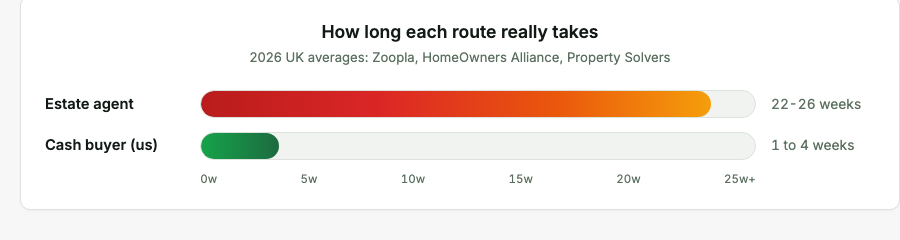
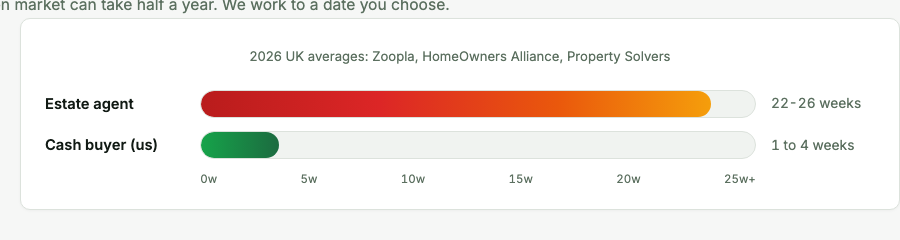
Homepage changes requested by Dearne Valley
Applies the amendments Dave and JP asked for, with two exceptions noted below.

- Entry popup delay moved from 3 seconds to 15, so a visitor can look at the
  site before it appears. poptest4.js asserted the popup by 3.8 seconds, so it
  encoded the old timing and has been retimed; its negative checks were also
  pushed past 15 seconds, otherwise they would pass merely because the timer
  had not fired yet.
- Hero: "or title complications" is now "or a property in need of repair".
- Stats strip: the "80-85% typical offer" tile is replaced with "Any condition,
  bought as it stands, no repairs needed", which is an approved claim.
- Simple Process: "buying your home" is now "buying your property".
- Instant Estimate calculator removed from the homepage.
- Comparison table removed. The timescale graph is kept, and the section is
  retitled "How long each route really takes" since the money table has gone.
  The duplicate title inside the figure caption is dropped.
- About: the "typically 80 to 85 percent of market value" clause is gone,
  replaced with the point that every property is priced on what it is rather
  than on a formula.

Removing the calculator meant cleaning up after it. 10 pages carried a "check
it yourself" callout linking to /#offer-estimate, which is now a dead anchor;
those now point at the offer form and no longer promise a number on screen.
The homepage HowTo schema describing the calculator is removed, since it
described content that is no longer there.
[…]

diff --git a/website/index.html b/website/index.html
@@ -32,42 +32,7 @@
   </style>
 
 <!-- howto-schema -->
-<script type="application/ld+json">
-{
-  "@context": "https://schema.org",
-  "@type": "HowTo",
-  "name": "How to estimate a cash offer for your house",
-  "description": "Get an indicative cash offer for your property based on its estimated market value and condition tier.",
-  "tool": [
-    {
-      "@type": "HowToTool",
-      "name": "South Yorkshire Property Buyers cash offer estimator"
-    }
-  ],
-  "step": [
-    {
-      "@type": "HowToStep",
-      "name": "Get an estimated market value",
-      "text": "Use Zoopla or Rightmove to get a free estimated market value for your property."
-    },
-    {
-      "@type": "HowToStep",
-      "name": "Enter the market value",
-      "text": "Type the estimated market value into the calculator in pounds sterling."
-    },
-    {
-      "@type": "HowToStep",
-      "name": "Pick property condition",
-      "text": "Choose the condition tier: excellent (refurbished), good (well-maintained), fair (dated), poor (significant work needed), or very poor (uninhabitable)."
-    },
-    {
-      "@type": "HowToStep",
-      "name": "Review the indicative offer",
-      "text": "The calculator shows the indicative cash offer, the condition-adjusted market value, and the offer as a percentage of market value. Final offers follow a short viewing and are valid for 14 days."
-    }
-  ]
-}
-</script>
+
 </head>
 <body>
 <div class="scroll-progress" id="scrollProgress"></div>
@@ -201,7 +166,7 @@
     </div>
     <div class="badge">South Yorkshire's Trusted Cash Buyers</div>
     <h1>Sell Your House Fast in South Yorkshire.<br><em>No Agents. No Delays.</em></h1>
-    <p>Facing <span class="kw">repossession</span>, <span class="kw">probate</span>, <span class="kw">divorce</span>, or <span class="kw">title complications</span>? We buy any property in South Yorkshire for <span class="kw">cash</span>, in as little as <span class="kw">7 days</span>.</p>
+    <p>Facing <span class="kw">repossession</span>, <span class="kw">probate</span>, <span class="kw">divorce</span>, or <span class="kw">a property in need of repair</span>? We buy any property in South Yorkshire for <span class="kw">cash</span>, in as little as <span class="kw">7 days</span>.</p>
     <div class="hero-btns">
       <a href="/get-offer/" class="btn-primary">Request My Callback</a>
       <a href="tel:+447739063734" class="btn-secondary" data-track="phone-tap">07739 063734</a>
@@ -239,8 +204,8 @@
     <span class="label">Your written cash offer</span>
   </div>
   <div class="sypb-stat">
-    <span class="num">80-85%</span>
-    <span class="label">Typical offer vs market value</span>
+    <span class="num">Any condition</span>
+    <span class="label">Bought as it stands, no repairs needed</span>
   </div>
   <div class="sypb-stat">
     <span class="num">£0</span>
@@ -254,7 +219,7 @@
     <div class="section-header reveal">
       <span class="section-label">Simple Process</span>
       <h2 class="section-title">How it works</h2>
-      <p class="section-sub">We are completely transparent throughout the process of buying your home.</p>
+      <p class="section-sub">We are completely transparent throughout the process of buying your property.</p>
     </div>
     <div class="how-steps reveal">
       <div class="how-step">
@@ -288,86 +253,7 @@
   </div>
 </section>
 
-<!-- CASH OFFER ESTIMATOR -->
-<section class="calc-section" id="offer-estimate" aria-labelledby="calc-home-heading">
-  <div class="section-inner" style="max-width:880px;">
-    <div class="section-header reveal" style="text-align:center;">
-      <span class="section-label">Instant Estimate</span>
-      <h2 class="section-title" id="calc-home-heading">See an indicative cash offer for your house</h2>
-      <p class="section-sub">Enter the Zoopla or Rightmove estimate for your property and pick an honest condition tier. We'll show you what we'd typically offer, instantly, with no contact details required.</p>
-    </div>
 
-    <section class="sypb-calc reveal" data-calc="cash-offer" aria-labelledby="cash-offer-heading-home">
-      <header class="sypb-calc-header">
-        <h3 id="cash-offer-heading-home">Cash offer estimator</h3>
-        <p>Numbers update as you type. No data leaves your browser.</p>
-      </header>
-
-      <div class="sypb-calc-grid">
-        <div class="sypb-calc-field">
-          <label for="cash-value-home">Estimated market value</label>
-          <div class="sypb-calc-input-wrap">
-            <span class="prefix">£</span>
-            <input id="cash-value-home" type="number" inputmode="decimal" min="0" step="1000" value="200000" class="has-prefix" data-calc-input="value" aria-describedby="cash-value-note-home">
-          </div>
-          <small id="cash-value-note-home" style="font-size:0.8rem;color:var(--muted);">Don't know? Get a free estimate from <a href="https://www.zoopla.co.uk/home-values/" rel="noopener" target="_blank">Zoopla</a> or <a href="https://www.rightmove.co.uk/house-prices.html" rel="noopener" target="_blank">Rightmove</a>.</small>
-        </div>
-
-        <div class="sypb-calc-field">
-          <label for="cash-condition-home">Property condition</label>
-          <div class="sypb-calc-input-wrap">
-            <select id="cash-condition-home" data-calc-input="condition">
-              <option value="excellent">Excellent: refurbished, move-in ready</option>
-              <option value="good" selected>Good: well-maintained, minor cosmetics</option>
-              <option value="fair">Fair: dated, needs modernisation</option>
-              <option value="poor">Poor: significant work needed (roof, damp, rewiring)</option>
-              <option value="derelict">Very poor, uninhabitable or structural problems</option>
-            </select>
-          </div>
-        </div>
-      </div>
-
-      <div class="sypb-calc-results single-headline" role="status" aria-live="polite">
-        <div class="sypb-calc-result-cell headline">
-          <span class="label">Indicative cash offer</span>
-          <span class="value" data-calc-out="offer">,</span>
-          <span class="range" data-calc-out="offer-range"></span>
-        </div>
-        <div class="sypb-calc-result-cell">
-          <span class="label">Condition-adjusted value</span>
-          <span class="value" data-calc-out="adjusted">,</span>
-        </div>
-        <div class="sypb-calc-result-cell">
-          <span class="label">% of market value</span>
-          <span class="value" data-calc-out="percent">,</span>
-        </div>
-      </div>
-
-      <div class="sypb-calc-question">
-        <h4>Does that figure work for what you need?</h4>
-        <div class="sypb-calc-buttons">
-          <button type="button" class="sypb-calc-btn" data-calc-action="ok">Yes, get me a firm offer</button>
-          <button type="button" class="sypb-calc-btn warn" data-calc-action="lower">Lower than I'd hoped, what are my options?</button>
-        </div>
-
-        <div class="sypb-calc-response" data-calc-response="ok" role="region">
-          <h5>Good. We can put a written offer in front of you the same day.</h5>
-          <p>The figure above is indicative, a firm written offer follows a short viewing (in person or by video) and a desktop check of comparable sales on your street. Once signed, the offer is valid for 14 days, and we can cover your legal fees if you use our panel solicitor. Typical completion is 7 to 28 days.</p>
-          <a class="cta-inline" href="/get-offer/">Get a firm offer</a>
-        </div>
-
-        <div class="sypb-calc-response warn" data-calc-response="lower" role="region">
-          <h5>That gap is real, and so is what you get for it.</h5>
-          <p>A cash sale at our typical 80-85% of market value buys you three things the estate-agent route can't reliably deliver: <strong>certainty</strong> (no chain, no buyer pulling out), <strong>speed</strong> (7 to 28 days vs 4-6 months average), and <strong>no fees</strong> (we can cover your legal fees if you use our panel solicitor; estate agents take 1-2% + VAT on top). For sellers in a real time-bind: divorce, probate, mortgage arrears, job relocation: that gap is often worth less than the equivalent in stress, double mortgage payments, or a chain collapse at week ten.</p>
-          <p>If you're not under time pressure, the estate-agent route may net you more. The honest comparison is on our <a href="/cash-buyer-vs-estate-agent/">cash buyer vs estate agent</a> page, read it before deciding.</p>
-          <a class="cta-inline" href="/get-offer/">Still get a firm offer (no obligation)</a>
-        </div>
-      </div>
-
-      <p class="sypb-calc-note">For illustration only. Final offers depend on a desktop check of comparable sales, a short viewing, and any title or structural issues found during conveyancing. Our offers typically land at 80-85% of open market value, see <a href="/blog/how-much-do-cash-buyers-offer-below-market-value/">how cash buyer pricing works</a>.</p>
-    </section>
-  </div>
-</section>
 
 <!-- MID-PAGE CTA #1 -->
 <div class="midcta-strip">
@@ -443,14 +329,13 @@
 <section class="compare-section" id="compare">
   <div class="section-inner">
     <div class="section-header reveal">
-      <span class="section-label">The Honest Comparison</span>
-      <h2 class="section-title">What each route actually costs you</h2>
-      <p class="section-sub">An example on a £130,000 property. The estate agent route lands somewhere in a range, depending on how long it takes to sell and what the property costs you to hold while you wait.</p>
+      <span class="section-label">Speed</span>
+      <h2 class="section-title">How long each route really takes</h2>
+      <p class="section-sub">The open market can take half a year. We work to a date you choose.</p>
     </div>
 
     <figure class="sypb-route-bars reveal" aria-label="Estate agent vs cash buyer timeline comparison" style="max-width:880px;margin:0 auto 2rem;">
       <figcaption>
-        <span class="route-bars-title">How long each route really takes</span>
         <span class="route-bars-sub">2026 UK averages: Zoopla, HomeOwners Alliance, Property Solvers</span>
       </figcaption>
       <div class="route-bars-grid">
@@ -470,51 +355,6 @@
       </div>
     </figure>
 
-    <div class="compare-wrap reveal">
-      <table class="compare-table">
-        <thead>
-          <tr>
-            <th></th>
-            <th>Estate Agent</th>
-            <th class="our-col">South Yorkshire<br>Property Buyers</th>
-          </tr>
-        </thead>
-        <tbody>
-          <tr>
-            <td>Time to sell</td>
-            <td><strong>6 to 9 months</strong></td>
-            <td class="our-col"><strong>As little as 7 days</strong></td>
-          </tr>
-          <tr>
-            <td>True market value</td>
-            <td><strong>£130,000</strong></td>
-            <td class="our-col"><strong>£130,000</strong></td>
-          </tr>
-          <tr>
-            <td>Agreed sale price</td>
-            <td><strong>£124,000</strong></td>
-            <td class="our-col"><strong>£110,000</strong></td>
-          </tr>
-          <tr>
-            <td>Agent fees (2.5%)</td>
-            <td><strong>less £3,100</strong></td>
-            <td class="our-col"><strong>None</strong></td>
-          </tr>
-          <tr>
-            <td>Cost of holding it while it sells: bills, council tax and any mortgage</td>
-            <td><strong>Nothing, up to £11,610</strong></td>
-            <td class="our-col"><strong>None</strong></td>
-          </tr>
-          <tr class="final-row">
-            <td><strong>What reaches you</strong></td>
-            <td><strong>£109,290 to £120,900</strong></td>
-            <td class="our-col"><strong>£110,000</strong></td>
-          </tr>
-        </tbody>
-      </table>
-    </div>
-    <p class="section-sub" style="max-width:780px;margin:1.75rem auto 0;text-align:left;">Those holding costs only count if they apply to you. An empty property with a mortgage still running for nine months is the expensive end of that range. A house that is mortgage free, or that sells quickly, costs far less to wait on, and then the estate agent route pays you more than we do. If that is your situation, we will tell you. We are worth talking to when a property is hard to sell, when holding on to it is costing you money every month, or when you need a completion date you can actually rely on.</p>
-    <p class="section-sub" style="max-width:780px;margin:1.25rem auto 0;text-align:left;">Auction is the third route people weigh up, and the figure you are shown there is not the one to compare either. Under the modern method of auction the buyer pays a non-refundable reservation fee on top of the hammer price, commonly 4.2 to 5 percent of the price plus VAT. It is described as paid by the buyer, not the seller, but a buyer works to a total budget, so that fee comes out of what they can afford to bid. Your own fee stack then comes off the suppressed price. We are not saying you always walk away with more by selling to us. We are saying the headline numbers are not like for like, and the figure worth comparing is the one that reaches your account on completion.</p>
     <div class="compare-cta reveal">
       <p>Ready to find out what we would pay for your property?</p>
       <a href="/get-offer/" class="btn-primary">Get My Free Cash Offer</a>
@@ -544,7 +384,7 @@
         <h2 class="section-title">South Yorkshire's local property buyers.</h2>
         <p>We are a small, experienced team of property investors based right here in South Yorkshire. We are not a national call centre. When you contact us, you speak directly with the <span class="kw">decision-maker</span>, with no middlemen and no waiting on approvals from head office.</p>
         <p>We have been buying residential and commercial property across <span class="kw">Sheffield, Rotherham, Doncaster, Barnsley</span>, and the surrounding areas for years. We know this market, we know the local solicitors, and we know how to move quickly when it matters.</p>
-        <p>We pay a fair cash price, typically <span class="kw">80 to 85 percent of market value</span>, in exchange for speed, certainty, and zero hassle. For many people in difficult circumstances, that trade-off is absolutely worth it, and we will always be honest with you about what to expect.</p>
+        <p>We pay a fair cash price in exchange for speed, certainty, and zero hassle. Every property is different, so we price yours on what it actually is rather than on a formula. For many people in difficult circumstances, that trade-off is absolutely worth it, and we will always be honest with you about what to expect.</p>
         <p>We <span class="kw">can cover your legal fees</span> if you use our panel solicitor, who knows exactly how we work, which keeps things moving quickly. You are free to use your own solicitor instead, and that is often worth doing, in which case their bill is yours. Either way, we charge you nothing.</p>
         <div class="about-stats">
           <div>
@@ -1183,8 +1023,6 @@
     </div>
   </div>
 </div>
-
-<script defer src="/js/calculators.js"></script>
 
 <script defer src="/js/site.js"></script>
 <script defer src="/js/popup.js"></script>

diff --git a/website/pages/situations/tenant-not-paying-rent/index.html b/website/pages/situations/tenant-not-paying-rent/index.html
@@ -632,7 +632,7 @@
     <p>Most open-market buyers are owner-occupiers. They need vacant possession. That is what forces landlords into the Section 8 timeline before they can sell. Investor cash buyers like SYPB are different, we buy to hold and let. A tenanted property is the asset we want, not an obstacle. The tenancy continues unbroken to us by operation of law under section 3 of the Landlord and Tenant Act 1985 and the common-law principles of tenancy assignment. We become the landlord on completion day. The tenant's rent, deposit and rights continue exactly as before.</p>
     <p>The economics: typical offers run at 80-85% of vacant possession market value for a property with arrears. The discount reflects the fact that we absorb the arrears risk (the £6,975 you might never recover via enforcement), the legal-process risk (the 8-10 month Section 8 timeline), the mortgage carrying cost going forward, and the refurbishment risk on a property whose condition we cannot fully verify until completion.</p>
     <div class="check-yourself">
-      <p><strong>Want to check that against your own house?</strong> Get a free, independent estimate from <a href="https://www.zoopla.co.uk/home-values/" rel="noopener" target="_blank">Zoopla</a> or <a href="https://www.rightmove.co.uk/house-prices.html" rel="noopener" target="_blank">Rightmove</a>, then put that figure into our <a href="/#offer-estimate">offer estimator</a> along with an honest view of the condition. It shows roughly what we would pay and why. Nothing leaves your browser and we do not ask for your details.</p>
+      <p><strong>Want to check that against your own house?</strong> Get a free, independent estimate from <a href="https://www.zoopla.co.uk/home-values/" rel="noopener" target="_blank">Zoopla</a> or <a href="https://www.rightmove.co.uk/house-prices.html" rel="noopener" target="_blank">Rightmove</a>, then <a href="/get-offer/">ask us what we would pay</a>. Every property is different, so we price yours on what it actually is rather than on a formula. There is no fee and no obligation.</p>
     </div>
 
     <p>The process: you provide the tenancy agreement, rent statement, any served Section 8 notice, deposit protection certificate, gas safety certificate, EICR, EPC, and the updated TA6 Property Information Form. Our solicitor conducts title and tenancy diligence. Cash completion in 7 to 28 days, at the faster end for a fully-documented property and nearer the longer end where missing compliance documents need to be reconstructed. You disclose the arrears in full, concealment is a misrepresentation under the Misrepresentation Act 1967 and we will find them on diligence.</p>

diff --git a/website/pages/situations/sell-flat-fast/index.html b/website/pages/situations/sell-flat-fast/index.html
@@ -493,7 +493,7 @@
     <p><strong>Auction.</strong> Works for flats with a story lenders dislike: short lease, B2 rating, heavy charges, because the room is mostly cash and bridging money. Sale is binding on the hammer, but fees typically run 3-5% all-in, the catalogue cycle takes 6-10 weeks, and roughly one lot in three fails to sell. Watch the modern method of auction in particular. The buyer pays a non-refundable reservation fee on top of the price, commonly 4.2 to 5 percent plus VAT. It is marketed as paid by the buyer, not the seller, but a buyer works to one total budget, so that fee comes out of what they can bid, and your own fee stack then comes off the suppressed hammer price. A hammer price and a cash offer are not like-for-like figures. Our <a href="/sell-house-at-auction/">auction guide</a> covers the mechanics.</p>
     <p><strong>Direct cash sale.</strong> Fastest and most certain, at a price below open-market value: our typical range is 80-85% of open market value, and on flats the exact figure reflects the lease length, service-charge position and any remediation exposure. No fees, no chain, no mortgage condition, and the LPE1 is the only external dependency. The figure in our offer letter is the figure we pay on completion, with no fees or commission taken off it. Use our <a href="/cash-buyer-vs-estate-agent/">net-proceeds comparison</a> to check whether the maths works in your case, for some sellers with mortgageable flats and no deadline, it honestly will not.</p>
     <div class="check-yourself">
-      <p><strong>Want to check that against your own flat?</strong> Get a free, independent estimate from <a href="https://www.zoopla.co.uk/home-values/" rel="noopener" target="_blank">Zoopla</a> or <a href="https://www.rightmove.co.uk/house-prices.html" rel="noopener" target="_blank">Rightmove</a>, then put that figure into our <a href="/#offer-estimate">offer estimator</a> along with an honest view of the condition. It shows roughly what we would pay and why. Nothing leaves your browser and we do not ask for your details.</p>
+      <p><strong>Want to check that against your own flat?</strong> Get a free, independent estimate from <a href="https://www.zoopla.co.uk/home-values/" rel="noopener" target="_blank">Zoopla</a> or <a href="https://www.rightmove.co.uk/house-prices.html" rel="noopener" target="_blank">Rightmove</a>, then <a href="/get-offer/">ask us what we would pay</a>. Every property is different, so we price yours on what it actually is rather than on a formula. There is no fee and no obligation.</p>
     </div>
 
 

diff --git a/website/pages/situations/selling-house-poor-condition-options/index.html b/website/pages/situations/selling-house-poor-condition-options/index.html
@@ -614,7 +614,7 @@
         <h3 class="faq-qh"><button class="faq-q" type="button" aria-expanded="false" aria-controls="faq-selling-house-poor-condition-options-1"><span class="faq-qt">Can I sell a house in very poor condition without doing any repairs first?</span><svg class="faq-chevron" viewBox="0 0 24 24" fill="none" stroke="currentColor" stroke-width="2" stroke-linecap="round" stroke-linejoin="round" aria-hidden="true"><polyline points="6 9 12 15 18 9"/></svg></button></h3>
         <div class="faq-a" id="faq-selling-house-poor-condition-options-1"><div class="faq-a-inner"><p>Yes. Direct cash buyers, traditional auctions and modern method of auction all accept properties in any condition. The open market is also possible, but the buyer pool narrows sharply once a property is unmortgageable. The trade-off is price: cash buyers typically pay 80-85% of refurbished market value; traditional auctions clear at 80-95%; refurb-then-sell at 95-100% but with 47% average budget overrun (BRE 2024).</p>
         
-          <p><strong>Want to check that against your own house?</strong> Get a free, independent estimate from <a href="https://www.zoopla.co.uk/home-values/" rel="noopener" target="_blank">Zoopla</a> or <a href="https://www.rightmove.co.uk/house-prices.html" rel="noopener" target="_blank">Rightmove</a>, then put that figure into our <a href="/#offer-estimate">offer estimator</a> along with an honest view of the condition. It shows roughly what we would pay and why. Nothing leaves your browser and we do not ask for your details.</p></div></div>
+          <p><strong>Want to check that against your own house?</strong> Get a free, independent estimate from <a href="https://www.zoopla.co.uk/home-values/" rel="noopener" target="_blank">Zoopla</a> or <a href="https://www.rightmove.co.uk/house-prices.html" rel="noopener" target="_blank">Rightmove</a>, then <a href="/get-offer/">ask us what we would pay</a>. Every property is different, so we price yours on what it actually is rather than on a formula. There is no fee and no obligation.</p></div></div>
       </div>
       <div class="faq-item">
         <h3 class="faq-qh"><button class="faq-q" type="button" aria-expanded="false" aria-controls="faq-selling-house-poor-condition-options-2"><span class="faq-qt">Will I pay full market value if I sell a property in poor condition?</span><svg class="faq-chevron" viewBox="0 0 24 24" fill="none" stroke="currentColor" stroke-width="2" stroke-linecap="round" stroke-linejoin="round" aria-hidden="true"><polyline points="6 9 12 15 18 9"/></svg></button></h3>

diff --git a/website/pages/comparisons/what-is-a-cash-buyer-selling-fast/index.html b/website/pages/comparisons/what-is-a-cash-buyer-selling-fast/index.html
@@ -539,7 +539,7 @@
     <h2>Why offers above 85% of market value are often a red flag</h2>
     <p>Counter-intuitively, the highest "cash" offers are statistically the most likely to be unworkable. Industry analysis of cash-buying companies consistently finds that genuine direct buyers operating with their own balance sheet rarely offer more than 80-85% of open-market value, because the spread has to cover stamp duty, both sides of legal fees, refurbishment, holding costs and resale risk. An offer of 90%, 95% or "full market value" is almost always one of three things: a sub-agent advertising a number it has no intention of paying in order to lock you into an option agreement; an investor who will later "renegotiate" once you have committed and the open-market window has been lost; or a buyer using bridging finance who has not disclosed it.</p>
     <div class="check-yourself">
-      <p><strong>Want to check that against your own house?</strong> Get a free, independent estimate from <a href="https://www.zoopla.co.uk/home-values/" rel="noopener" target="_blank">Zoopla</a> or <a href="https://www.rightmove.co.uk/house-prices.html" rel="noopener" target="_blank">Rightmove</a>, then put that figure into our <a href="/#offer-estimate">offer estimator</a> along with an honest view of the condition. It shows roughly what we would pay and why. Nothing leaves your browser and we do not ask for your details.</p>
+      <p><strong>Want to check that against your own house?</strong> Get a free, independent estimate from <a href="https://www.zoopla.co.uk/home-values/" rel="noopener" target="_blank">Zoopla</a> or <a href="https://www.rightmove.co.uk/house-prices.html" rel="noopener" target="_blank">Rightmove</a>, then <a href="/get-offer/">ask us what we would pay</a>. Every property is different, so we price yours on what it actually is rather than on a formula. There is no fee and no obligation.</p>
     </div>
 
     <p>The pattern at completion is the same in all three cases: the headline price is dropped a week before exchange, you are months into the process, and the perceived cost of starting again is high. A genuine 80% offer that completes is worth far more than a notional 95% offer that re-quotes at 70%. UK Finance and trade-press estimates put the total cost of cash-buyer scams to UK homeowners at well over £200m to date, almost all of it concentrated in the optimistic-offer end of the market.</p>

diff --git a/website/pages/comparisons/should-i-accept-a-cash-offer/index.html b/website/pages/comparisons/should-i-accept-a-cash-offer/index.html
@@ -457,7 +457,7 @@
     <h2>Compare net to net, not offer to asking price</h2>
     <p>The comparison almost everyone makes is the cash offer against the price they hope an estate agent will get. That is not a fair comparison, because the asking price is not what lands in your bank account. You have to compare what you actually walk away with on each route, after every cost, and after allowing for the risk that the sale falls through. Reputable UK cash buyers offer between 75 and 85 per cent of open market value in 2026, and we typically sit in the 80 to 85 per cent band. That headline gap looks large. Once you subtract estate agent commission (usually 1 to 2 per cent plus VAT), solicitor fees, an Energy Performance Certificate, any pre-sale repairs and presentation, and the carrying costs of mortgage, council tax, utilities and insurance across the average 25-week open-market timeline, the real gap narrows. Then you weigh the roughly one-in-four to one-in-three chance the open-market sale collapses before completion, taking your wasted costs with it. Our full net-vs-net maths sits on the cash buyer vs estate agent page. The point here is simple: compare the two net figures, not the offer against a hopeful asking price.</p>
     <div class="check-yourself">
-      <p><strong>Want to check that against your own house?</strong> Get a free, independent estimate from <a href="https://www.zoopla.co.uk/home-values/" rel="noopener" target="_blank">Zoopla</a> or <a href="https://www.rightmove.co.uk/house-prices.html" rel="noopener" target="_blank">Rightmove</a>, then put that figure into our <a href="/#offer-estimate">offer estimator</a> along with an honest view of the condition. It shows roughly what we would pay and why. Nothing leaves your browser and we do not ask for your details.</p>
+      <p><strong>Want to check that against your own house?</strong> Get a free, independent estimate from <a href="https://www.zoopla.co.uk/home-values/" rel="noopener" target="_blank">Zoopla</a> or <a href="https://www.rightmove.co.uk/house-prices.html" rel="noopener" target="_blank">Rightmove</a>, then <a href="/get-offer/">ask us what we would pay</a>. Every property is different, so we price yours on what it actually is rather than on a formula. There is no fee and no obligation.</p>
     </div>
 
 

diff --git a/website/pages/comparisons/struggling-to-sell-my-house/index.html b/website/pages/comparisons/struggling-to-sell-my-house/index.html
@@ -514,7 +514,7 @@
     <div class="quick-answer" style="background:#f3f4f6;border-left:4px solid #0f766e;padding:1rem 1.25rem;margin:0 0 1.5rem 0;border-radius:6px;">
       <p style="margin:0;font-size:1rem;line-height:1.55;"><strong>Quick answer:</strong> If you are struggling to sell your house in 2026, the cause is almost always one of five things: price relative to the local sold-price cluster, condition flags that fail mortgage surveys, weak online presentation, a passive agent, or a slow micro-market. Most stuck sales are price-driven. The honest order of fixes is: diagnose first; re-price decisively (8 to 10 per cent rather than nibble reductions); refresh photos and review marketing; switch agent if activity is weak (read the contract first); consider auction if mortgage buyers keep withdrawing; and consider a cash sale if speed and certainty now matter more than top-of-market price. South Yorkshire Property Buyers buys stalled properties across Sheffield, Rotherham, Doncaster, Barnsley, Chesterfield, Worksop, Retford, Gainsborough and Mansfield: typical 80 to 85 per cent of realistic open-market value, same day written offer, completion in 7 to 28 days.</p>
     <div class="check-yourself">
-      <p><strong>Want to check that against your own house?</strong> Get a free, independent estimate from <a href="https://www.zoopla.co.uk/home-values/" rel="noopener" target="_blank">Zoopla</a> or <a href="https://www.rightmove.co.uk/house-prices.html" rel="noopener" target="_blank">Rightmove</a>, then put that figure into our <a href="/#offer-estimate">offer estimator</a> along with an honest view of the condition. It shows roughly what we would pay and why. Nothing leaves your browser and we do not ask for your details.</p>
+      <p><strong>Want to check that against your own house?</strong> Get a free, independent estimate from <a href="https://www.zoopla.co.uk/home-values/" rel="noopener" target="_blank">Zoopla</a> or <a href="https://www.rightmove.co.uk/house-prices.html" rel="noopener" target="_blank">Rightmove</a>, then <a href="/get-offer/">ask us what we would pay</a>. Every property is different, so we price yours on what it actually is rather than on a formula. There is no fee and no obligation.</p>
     </div>
 
     </div>

diff --git a/website/pages/comparisons/house-wont-sell-what-to-do/index.html b/website/pages/comparisons/house-wont-sell-what-to-do/index.html
@@ -490,7 +490,7 @@
     <div class="quick-answer" style="background:#f3f4f6;border-left:4px solid #0f766e;padding:1rem 1.25rem;margin:0 0 1.5rem 0;border-radius:6px;">
       <p style="margin:0;font-size:1rem;line-height:1.55;"><strong>Quick answer:</strong> If your property is past 12 weeks on the market without an acceptable offer, the launch price was almost certainly wrong. The honest order of moves is: (1) diagnose: price, photos, agent activity, condition, micro-market; (2) re-price decisively (8 to 10 per cent rather than nibble reductions); (3) review marketing and consider switching agent if photos and activity are weak; (4) consider auction if condition or legal issues make mortgaged buyers unviable; (5) consider a cash sale if speed and certainty matter more than top-of-market price. South Yorkshire Property Buyers buys stalled properties across Sheffield, Rotherham, Doncaster, Barnsley, Chesterfield, Worksop, Retford, Gainsborough and Mansfield: typical 80 to 85 per cent of realistic open-market value, same day written offer, completion in 7 to 28 days.</p>
     <div class="check-yourself">
-      <p><strong>Want to check that against your own house?</strong> Get a free, independent estimate from <a href="https://www.zoopla.co.uk/home-values/" rel="noopener" target="_blank">Zoopla</a> or <a href="https://www.rightmove.co.uk/house-prices.html" rel="noopener" target="_blank">Rightmove</a>, then put that figure into our <a href="/#offer-estimate">offer estimator</a> along with an honest view of the condition. It shows roughly what we would pay and why. Nothing leaves your browser and we do not ask for your details.</p>
+      <p><strong>Want to check that against your own house?</strong> Get a free, independent estimate from <a href="https://www.zoopla.co.uk/home-values/" rel="noopener" target="_blank">Zoopla</a> or <a href="https://www.rightmove.co.uk/house-prices.html" rel="noopener" target="_blank">Rightmove</a>, then <a href="/get-offer/">ask us what we would pay</a>. Every property is different, so we price yours on what it actually is rather than on a formula. There is no fee and no obligation.</p>
     </div>
 
     </div>

diff --git a/website/pages/comparisons/costs-of-selling-to-a-cash-buyer/index.html b/website/pages/comparisons/costs-of-selling-to-a-cash-buyer/index.html
@@ -464,7 +464,7 @@
     <h2>Why 80-85% is gross, not what you lose</h2>
     <p>Cash offers from reputable buyers sit at around 80 to 85 per cent of open-market value in 2026. It is easy to read that as "I am losing 15 to 20 per cent", but that is not how the maths lands, because the two routes do not start from the same place.</p>
     <div class="check-yourself">
-      <p><strong>Want to check that against your own house?</strong> Get a free, independent estimate from <a href="https://www.zoopla.co.uk/home-values/" rel="noopener" target="_blank">Zoopla</a> or <a href="https://www.rightmove.co.uk/house-prices.html" rel="noopener" target="_blank">Rightmove</a>, then put that figure into our <a href="/#offer-estimate">offer estimator</a> along with an honest view of the condition. It shows roughly what we would pay and why. Nothing leaves your browser and we do not ask for your details.</p>
+      <p><strong>Want to check that against your own house?</strong> Get a free, independent estimate from <a href="https://www.zoopla.co.uk/home-values/" rel="noopener" target="_blank">Zoopla</a> or <a href="https://www.rightmove.co.uk/house-prices.html" rel="noopener" target="_blank">Rightmove</a>, then <a href="/get-offer/">ask us what we would pay</a>. Every property is different, so we price yours on what it actually is rather than on a formula. There is no fee and no obligation.</p>
     </div>
 
     <p>The estate agent's headline number is a gross figure too. Before anything reaches you it loses commission, your solicitor's bill, an EPC, and every month of council tax, insurance and mortgage interest until the day you complete. The cash figure has none of those deductions, and the buyer pays your legals. So you are not comparing 82 per cent against 100 per cent. You are comparing a clean 82 per cent against an open-market price that has already been trimmed by fees and months of carrying costs, and which is not guaranteed to complete at all.</p>

diff --git a/website/pages/situations/sell-house-with-tenants-in-situ/index.html b/website/pages/situations/sell-house-with-tenants-in-situ/index.html
@@ -706,7 +706,7 @@
     </ul>
     <p>The typical offer band on a clean South Yorkshire tenanted single-let in 2026 is <strong>80 to 85% of market value</strong>. A well-yielding let in a high-demand postcode sits at the top of that band; a problem let with arrears or a disputed deposit sits at the bottom. The tenanted discount is already inside that figure, we do not take it off twice. We will always show you the working: comparables, current rent, and any condition adjustments, in writing. The offer can change if conveyancing turns up something material, such as a title defect or a structural problem, and if that happens we will show you the revised figure and the reason for it.</p>
     <div class="check-yourself">
-      <p><strong>Want to check that against your own house?</strong> Get a free, independent estimate from <a href="https://www.zoopla.co.uk/home-values/" rel="noopener" target="_blank">Zoopla</a> or <a href="https://www.rightmove.co.uk/house-prices.html" rel="noopener" target="_blank">Rightmove</a>, then put that figure into our <a href="/#offer-estimate">offer estimator</a> along with an honest view of the condition. It shows roughly what we would pay and why. Nothing leaves your browser and we do not ask for your details.</p>
+      <p><strong>Want to check that against your own house?</strong> Get a free, independent estimate from <a href="https://www.zoopla.co.uk/home-values/" rel="noopener" target="_blank">Zoopla</a> or <a href="https://www.rightmove.co.uk/house-prices.html" rel="noopener" target="_blank">Rightmove</a>, then <a href="/get-offer/">ask us what we would pay</a>. Every property is different, so we price yours on what it actually is rather than on a formula. There is no fee and no obligation.</p>
     </div>
 
 

diff --git a/website/pages/situations/title-defects-can-i-sell-my-property/index.html b/website/pages/situations/title-defects-can-i-sell-my-property/index.html
@@ -525,7 +525,7 @@
     </ul>
     <p>The unscrupulous corner of the quick-sale segment depends on those numbers staying merged. An opening offer at 80-85% of market value sounds reasonable; it then drops shortly before exchange, with the defect itself used as the explanation. Once cash discount and indemnity cost are <em>separated</em> in writing, with the indemnity quote on the table before you sign, that tactic collapses.</p>
     <div class="check-yourself">
-      <p><strong>Want to check that against your own house?</strong> Get a free, independent estimate from <a href="https://www.zoopla.co.uk/home-values/" rel="noopener" target="_blank">Zoopla</a> or <a href="https://www.rightmove.co.uk/house-prices.html" rel="noopener" target="_blank">Rightmove</a>, then put that figure into our <a href="/#offer-estimate">offer estimator</a> along with an honest view of the condition. It shows roughly what we would pay and why. Nothing leaves your browser and we do not ask for your details.</p>
+      <p><strong>Want to check that against your own house?</strong> Get a free, independent estimate from <a href="https://www.zoopla.co.uk/home-values/" rel="noopener" target="_blank">Zoopla</a> or <a href="https://www.rightmove.co.uk/house-prices.html" rel="noopener" target="_blank">Rightmove</a>, then <a href="/get-offer/">ask us what we would pay</a>. Every property is different, so we price yours on what it actually is rather than on a formula. There is no fee and no obligation.</p>
     </div>
 
 

diff --git a/website/js/popup.js b/website/js/popup.js
@@ -7,7 +7,7 @@
 (function () {
   'use strict';
 
-  var DELAY_MS = 3000;
+  var DELAY_MS = 15000;
   var SEEN_KEY = 'sypb_popup_seen';
   var LEAD_KEY = 'sypb_lead_submitted';
   var SKIP_PATHS = ['/get-offer/', '/thank-you/'];
@@ -155,8 +155,8 @@
     return window.getComputedStyle(el).display !== 'none';
   }
 
-  /* Run the 3s clock first, so a visitor with no cookie banner sees the popup at
-     exactly 3s. Only then, if the banner is still up, hold off until it is gone. */
+  /* Run the 15s clock first, so a visitor with no cookie banner sees the popup at
+     exactly 15s. Only then, if the banner is still up, hold off until it is gone. */
   function start() {
     var MAX_WAIT_MS = 30000;
     setTimeout(function () {
